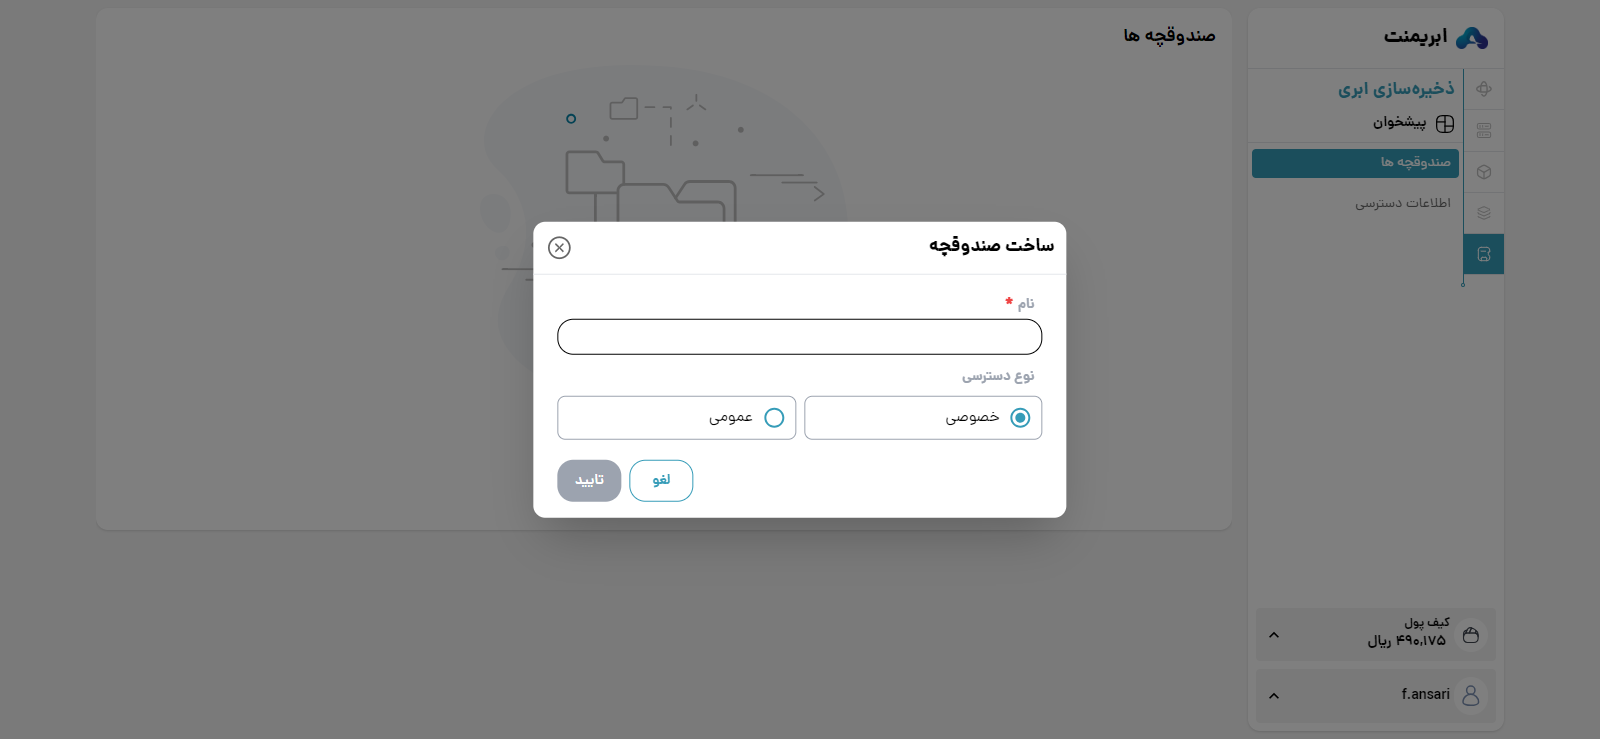
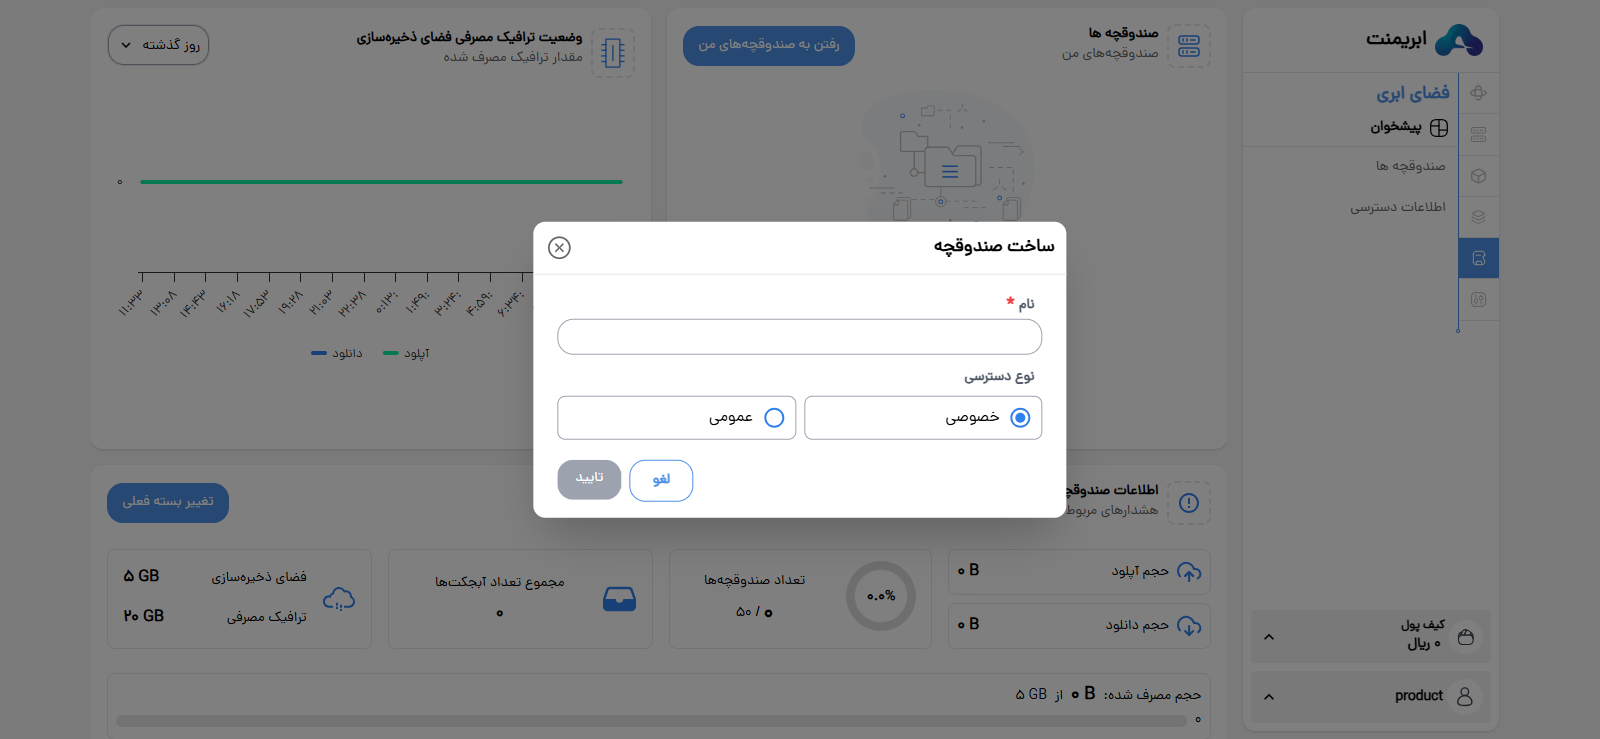
2.9

diff --git a/docs/object-storage.md b/docs/object-storage.md
@@ -9,9 +9,9 @@ sidebar_position: 6
 ذخیرهسازی شیء یا Object Storage یک روش ذخیرهسازی داده است که در آن دادهها به صورت اشیاء (Objects) با هویت یکتا و فرادادههای ضمیمه آنها ذخیره میشوند. این سیستم همچنین شامل نقشه کلید-مقدار (Key-Value) است که این اشیاء را مشخص میکند. Object Storage توانایی ذخیره دادههای بزرگ و پیچیده را دارد و به طور معمول در محیطهای کلان داده، ابری و محیطهای اینترنتی مورد استفاده قرار میگیرد. از مزایای ذکر شده برای این سیستم مقیاسپذیری بالا، عملکرد سریع و قابلیت اعتماد و بازیابی دادهها در صورت 
 خرابی بوده و از لحاظ هزینه نیز کارآمد و مقرون به صرفه میباشد.
 
-بعد از ورود به بخش فضای ابری با صفحه صندوقچه ها روبهرو میشوید:
+بعد از ورود به بخش فضای ابری با صفحه پیشخوان فضای ابری مواجه میشوید:
 
-![2](/img/objectstorage/2.png)
+![1](/img/objectstorage/1.png)
 
 ### ساخت صندوقچه
 با انتخاب **ساخت صندوقچه** میتوانید صندوقچه جدیدی برای خود بسازید.
@@ -61,6 +61,13 @@ sidebar_position: 6
 به کمک گزینه **دانلود فایل** میتوانید فایل مورد نظر را دانلود کرده و همچنین از بخش **حذف**،  فایل یا پوشه انتخاب شده را حذف نمایید.
 
 ![op](/img/objectstorage/op.png)
+
+#### کوتاه کننده لینک
+
+برای کوتاه کردن لینک فایل موردنظراز این بخش اقدام نمایید.
+
+![op](/img/objectstorage/short.png)
+
 
  ### اتصال به فضای ابریمنت با S3 
 

diff --git a/docs/iaas.md b/docs/iaas.md
@@ -23,7 +23,15 @@ sidebar_position: 2
 
 در بخش جزئیات میتوانید تعیین کنید ماشین مورد نظر باید از روی یک سیستم عامل و یا یک snapshot ایجاد شود. همچنین میزان منابع تخصیص دادهشده را تعیین میکنید.
 
+![iaas](/img/server/iaas2-00.png)
+از این بخش بستهی مورد نظر خود را باتوجه به نیازمندی انتخاب نمایید.
+
+![iaas](/img/server/iaas2-01.png)
+
+همچنین اندازه دیسک مورد نظر خود را انتخاب کنید، در این قسمت درصورت درخواست دیسک بیشتر میتوانید دیسک ثانویه را بصورت (hdd) وارد نمایید.
+
 ![iaas](/img/server/iaas3.png)
+
 
 در بخش تنظیمات شبکه انتخاب میکنید ماشین مورد نظر باید در کدام شبکه قرار داشته باشد.
 توجه: در صورتیکه میخواهید از یک شبکه دلخواه استفاده کنید باید از طریق بخش شبکهها آن را بسازید.
@@ -117,6 +125,13 @@ sidebar_position: 2
  و برای حذف ماشین مورد نظر خود از این قسمت اقدام نمایید.
 
 ![edit-v13](/img/server/edit-v13.png)
+
+#### تغییر رمز rootماشین
+
+برای تغییر پسورد ماشین مورد نظر میتوانید از بخش عملیات و انتخاب "تغییر "رمز اقدام نمایید.
+
+![iaas-v13-1](/img/server/iaas13-1.png)
+
 
 ### جزییات ماشین های من
 

diff --git a/docs/dbaas/general-dbaas.md b/docs/dbaas/general-dbaas.md
@@ -29,6 +29,11 @@ sidebar_position: 1
 بخش اطلاعات اتصال برای اتصال داخلی و خارجی استفاده نمایید
 همچنین از اطلاعات کاربر،رمز عبور خود را تغییر دهید
 
+#### کلون گرفتن از دیتابیس
+dbaas-clone ![dbaas-clone](/img/database/dbaas-clone.png)
+
+ از این بخش برای کلون گرفتن دیتابیس موردنظر خود اقدام نمایید.
+
 ![dbaas_database_overview](/img/database/dbaas_database_overview.png)
 
 از بخش پشتیبان گیری با زدن دکمه **ایجاد پشتیبان** میتوانید از دیتابیس خود بکاپ تهیه کنید تا در صورت نیاز برای بازیابی از آن استفاده کنید.
